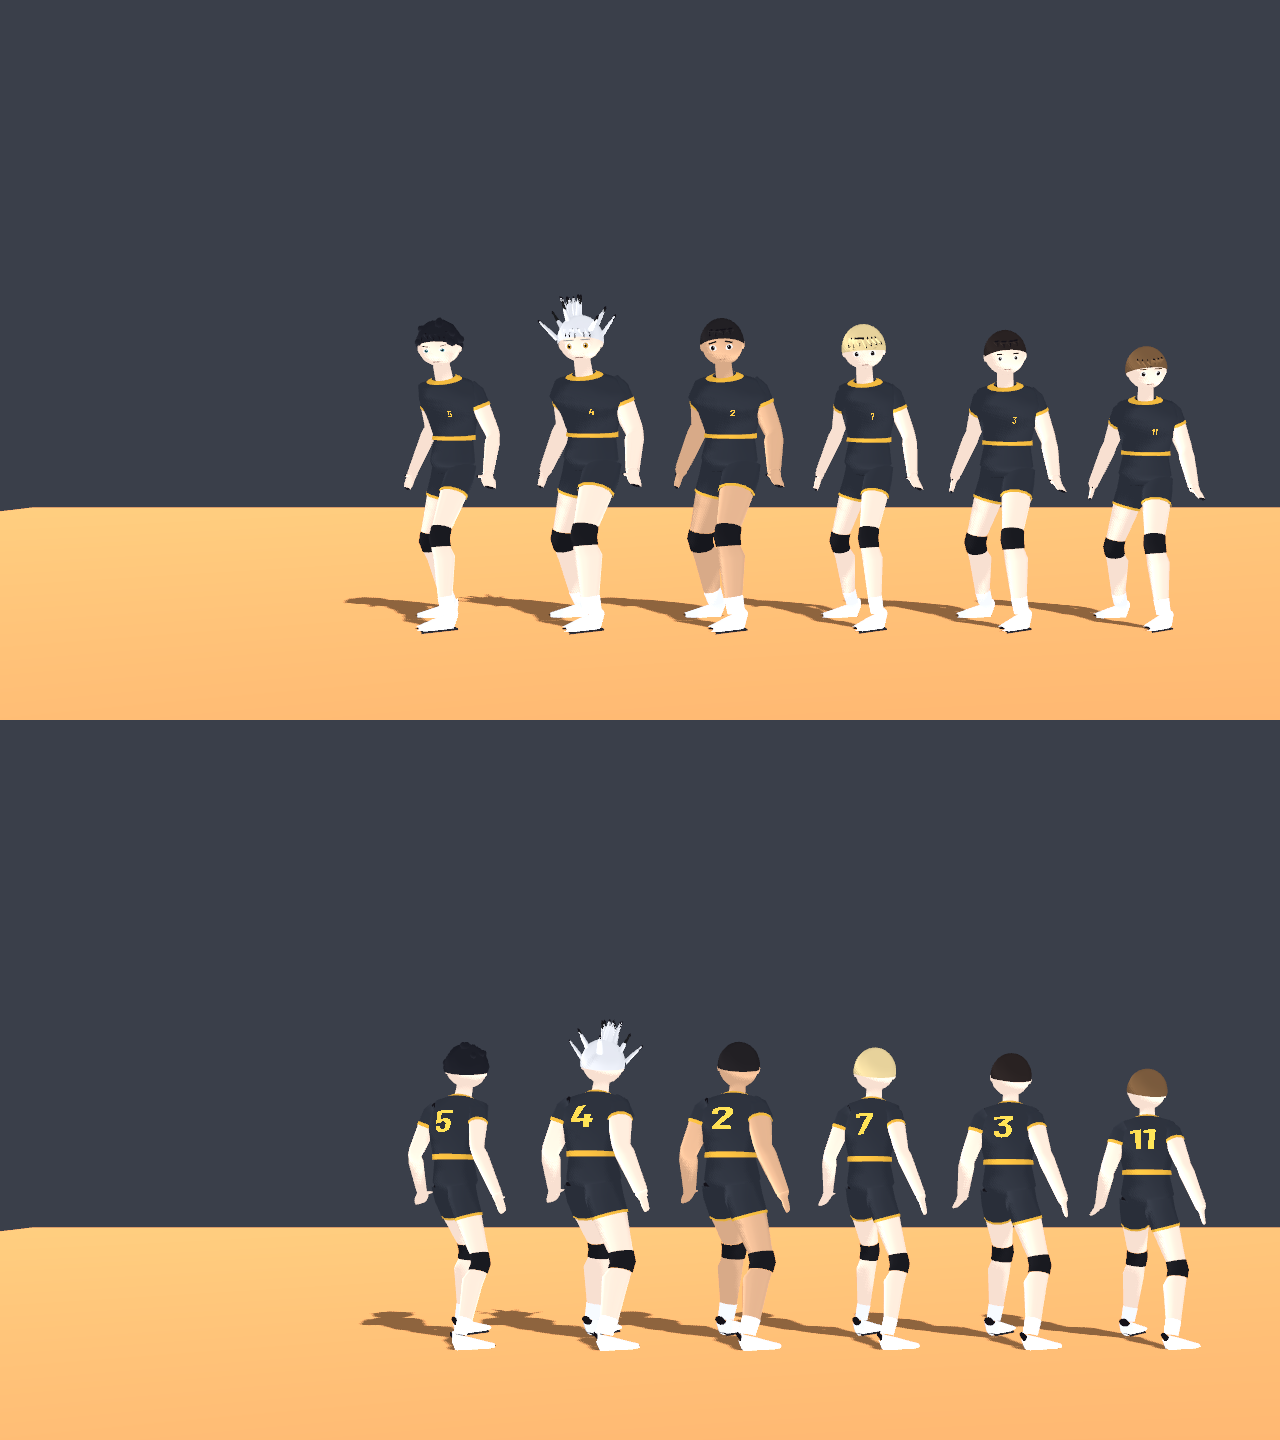
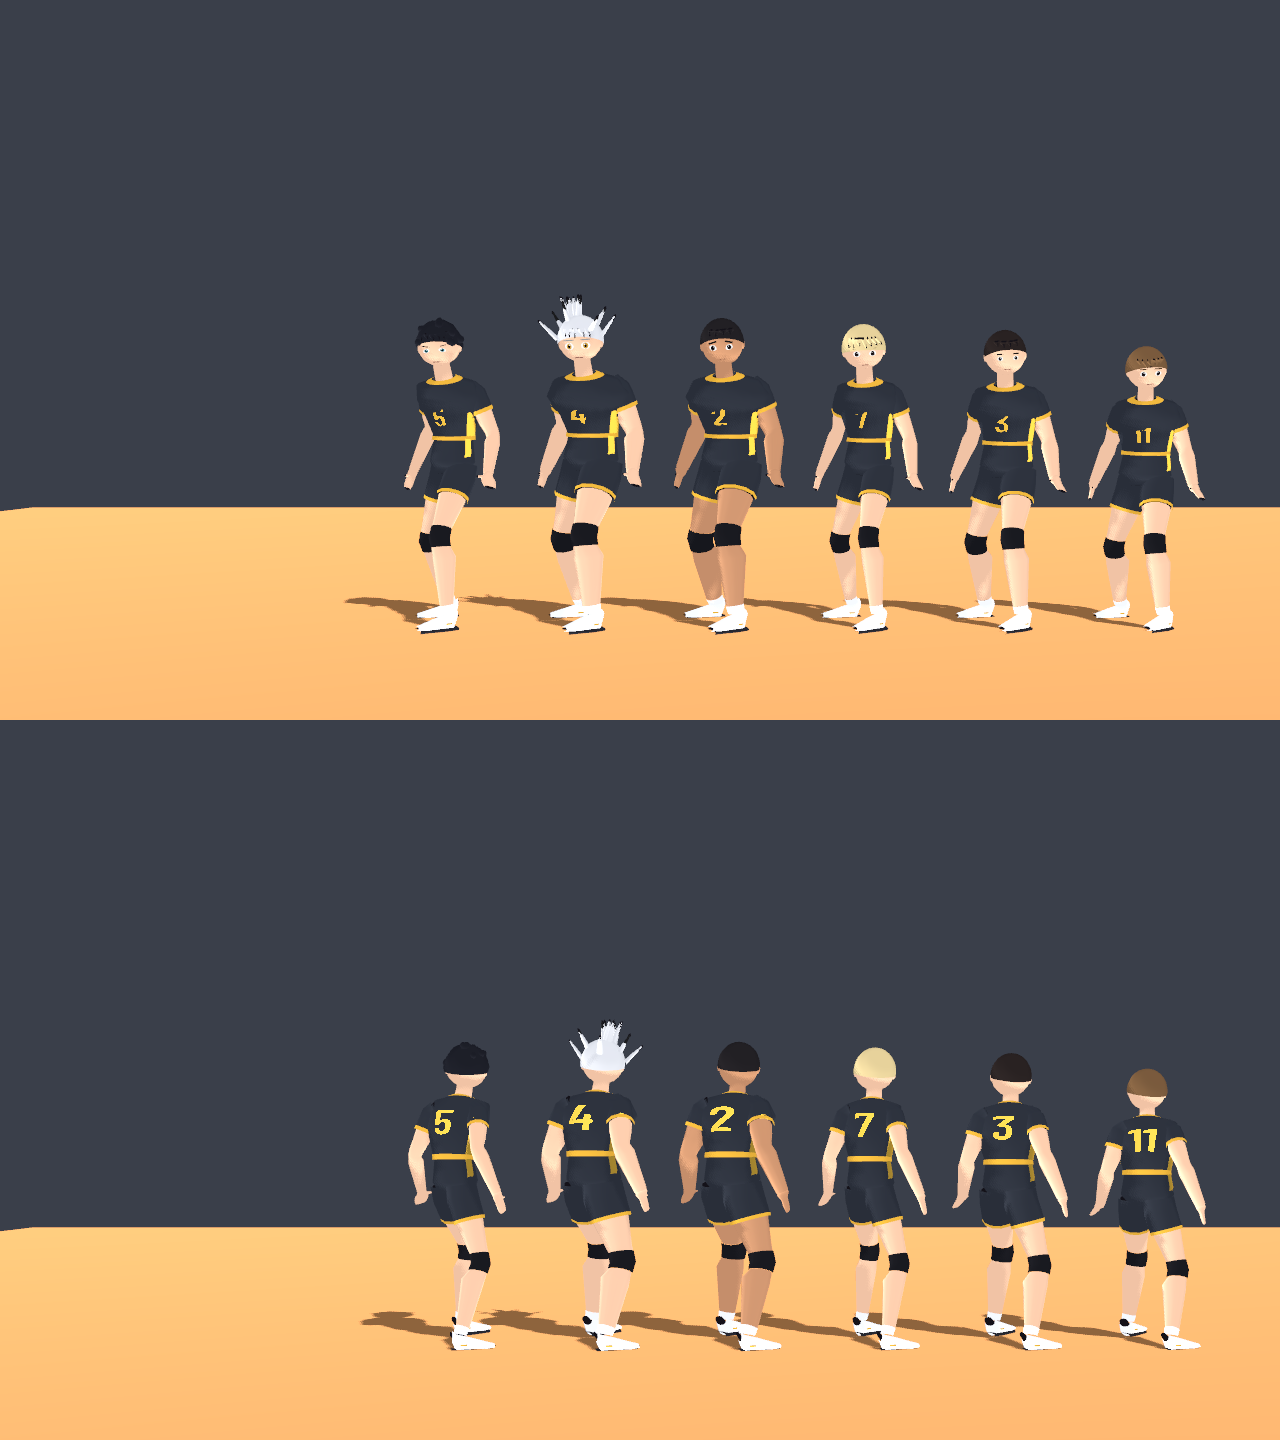
Fase 06: pose de espera dos atletas e relatório
- Animação "espera" (joelhos dobrados, quadril baixo, braços à frente)
  usada quando o atleta está parado em quadra; pés medidos no chão
  de 1,63 m a 1,94 m.
- Teste novo teste_pose_de_espera.gd; vista "espera" nas capturas.
- Folhas dos 7 times refeitas com o gerador novo e comparações em
  producao/fase06.
- Relatório docs/FASE_06_ATLETA.md: 30/30 testes, robô 2x1 sem erros.

diff --git a/docs/FASE_06_ATLETA.md b/docs/FASE_06_ATLETA.md
@@ -1,0 +1,41 @@
+# Fase 06 — Atleta low-poly com personalidade (42 preservados)
+
+Data: 11/11/2026 (madrugada, tarefa agendada). Branch `claude/fase-06-atleta`, a partir de `claude/fase-05-polyfork`, com a prévia aprovada (`claude/previa-atleta`).
+
+## Resumo
+- O **gerador de atletas** ficou mais atlético e com uniforme de verdade, e os atletas ganharam uma **pose de espera** em quadra. Tudo por código: as mudanças valem pros **42** de uma vez, sem obra manual em cada um.
+- Os dados dos 42 (`dados/aparencia.json`, `dados/elenco.json`) **não mudaram**: altura, porte, pele, cabelo e rosto de cada um continuam os mesmos.
+- **Testes:** 30 de 30 arquivos de `testes/` passaram `[TESTADO]`; teste novo `teste_pose_de_espera.gd`. **Robô:** partida completa Karasuno × Nekoma no ginásio japonês, 2 × 1 em sets, 29 rallies (maior com 44 toques), 353 s de jogo, 0 linhas de erro; 3,9 ms por quadro em média (pior 14,7 ms, sem janela).
+
+## O que mudou no corpo e no uniforme (`scripts/visual/gerador_de_atleta.gd`)
+| Antes | Agora |
+|---|---|
+| Pele quase branca (o shader anime clareava demais) | Tons de pele com cor, do mais claro ao mais escuro (tabela `PELES`) |
+| Tronco estreito, "boneco de tubos" | Ombros e peito mais largos (silhueta em V), deltoide, bíceps, antebraço, coxa e panturrilha com volume |
+| Número da frente minúsculo, no canto | **Número grande no meio do peito**; o das costas também cresceu |
+| Camisa e short lisos | **Recortes laterais** na camisa e **faixa lateral** no short, na cor de detalhe do time; manga mais comprida e larga; short um pouco mais comprido |
+| Meia branca até a canela, misturando com a perna e o tênis | **Meia curta** e **tênis com sola mais grossa e faixa na cor do time** |
+
+## Pose de espera (`scripts/visual/animador.gd`)
+Parado em quadra, o atleta não fica mais em pé com os braços soltos: toca a animação **"espera"**, feita a partir da "parado" (mesma respiração), com **joelhos dobrados, quadril mais baixo, tronco inclinado pra frente e braços na frente do corpo**. Os ângulos ficam em `POSE_DE_ESPERA` e a descida do quadril em `DESCIDA_DO_QUADRIL`, ajustados medindo os ossos: **tornozelo na mesma altura e ponta do pé no chão** em atletas de 1,63 m a 1,94 m (diferença de até 4 mm). Corrida, passos laterais, lances, cortada (mão da batida, `LeftHand`) e comemorações não mudaram. Os árbitros, reservas, a seleção e as cartas continuam com a "parado" (em pé).
+
+## Capturas `[VALIDADO VISUALMENTE]`
+- `producao/fase06/comparacao_hinata_*.png` — Hinata antes (esquerda) e agora (direita): frente, três quartos, perfil, costas, correr, cortada.
+- `producao/fase06/comparacao_hinata_parado_x_espera.png` — antes em pé × agora na pose de espera.
+- `producao/fase06/comparacao_partida.png` — a mesma cena de jogo, antes e agora (12 atletas).
+- `producao/fase06/comparacao_detalhe_banco.png` — reservas no banco.
+- `producao/capturas/<time>/folha.png` — os 6 de cada um dos 7 times, refeitos com o gerador novo (frente e costas).
+- `producao/capturas/karasuno/10_hinata_*.png` — todas as vistas do Hinata, inclusive a nova `espera`.
+
+## Testes `[TESTADO]`
+- `teste_pose_de_espera.gd` (novo): a "espera" existe e repete, é a pose parada em quadra, e em 4 atletas de alturas diferentes o tornozelo e a ponta do pé ficam no chão com o quadril mais baixo; o animador de verdade começa nela.
+- `teste_elenco_em_quadra.gd` continua confirmando os 42 atletas com malha, pesos, esqueleto e animações; `teste_animacoes`, `teste_animador` e `teste_cortada` continuam passando (rig e batida intactos).
+
+## Como fica pros 42
+Não há nada pra fazer atleta por atleta: corpo, uniforme e pose saem do gerador e do animador. Pra mudar um atleta, continua sendo só o `dados/aparencia.json` (altura, porte, pele, cabelo, rosto). Um `.vrm` em `personagens/` continua tendo prioridade sobre o gerado, e a cápsula continua como reserva.
+
+## Polyfork humanoide
+Não usado: os personagens da Polyfork têm outro esqueleto (Mixamo de 22 ossos, sem os dedos do perfil do jogo) e uniforme de outros esportes; trocar exigiria retarget e refazer roupa e cabelo pra cada um, enquanto o gerador já entrega os 42 diferentes e animados.
+
+## Como ver no seu PC
+**F5** → Partida rápida → qualquer time. Parados, os atletas esperam agachados; ao correr, voltam ao normal. Na seleção, o atleta do retrato mostra o uniforme novo.

diff --git a/docs/ESTADO_DO_PROJETO.md b/docs/ESTADO_DO_PROJETO.md
@@ -194,11 +194,12 @@ Leia esta seção inteira antes de mexer no código.
 - **Cuidado:** deixe **Remove Tracks desligado** na importação. No Godot 4.7.2 ele apaga as trilhas da animação.
 - **DeepMotion** (vídeo → animação): ossos com nomes `*_JNT`, vem de costas e o quadril sobe com o tempo. Fica em `animacoes/deepmotion/` com `deepmotion_bone_map.tres`; rode `godot --headless --script res://ferramentas/converte_deepmotion.gd` pra gerar o `.tres` do jogo.
 - Levantamento e cortada montada saem de `ferramentas/animacoes_combinadas.gd`.
+- **Pose de espera** (Fase 06): parado em quadra o atleta toca "espera", criada em `animador.gd` a partir da "parado" (`POSE_DE_ESPERA`, `DESCIDA_DO_QUADRIL`, `PARADO_NO_JOGO`). Mexendo nos ângulos, rode `teste_pose_de_espera.gd` (confere os pés no chão).
 - `scripts/visual/animador.gd`: a tabela `TRECHOS` diz qual pedaço de cada animação toca em cada lance. A cortada usa `TEMPO_ATE_A_BATIDA` (0,3 s) e puxa a bola até a mão (ímã de 0,15 s).
 - Passo a passo completo em `animacoes/LEIA-ME.md`.
 
 ### Testes
-- São 29 arquivos em `testes/` (`teste_cenario.gd` abre a partida nos 4 estádios e confere rede, árbitros, pessoas e as camadas de cada câmera; `teste_tela_de_selecao.gd` e `teste_tela_de_cartas.gd` abrem a tela e apertam os botões dos dois jogadores; `teste_elenco_em_quadra.gd` confere os 42 atletas: malha com pesos, esqueleto, trilhas das animações e pose que se mexe). Rode todos, dentro da pasta do projeto:
+- São 30 arquivos em `testes/` (`teste_pose_de_espera.gd` confere a pose de espera com os pés no chão; `teste_cenario.gd` abre a partida nos 4 estádios e confere rede, árbitros, pessoas e as camadas de cada câmera; `teste_tela_de_selecao.gd` e `teste_tela_de_cartas.gd` abrem a tela e apertam os botões dos dois jogadores; `teste_elenco_em_quadra.gd` confere os 42 atletas: malha com pesos, esqueleto, trilhas das animações e pose que se mexe). Rode todos, dentro da pasta do projeto:
 
 ```
 for t in testes/teste_*.gd; do godot --headless --script res://$t; done

diff --git a/README.md b/README.md
@@ -131,7 +131,7 @@ godot --headless --script res://testes/teste_animacoes.gd
 godot --headless --script res://testes/teste_animador.gd
 ```
 
-Ou todos de uma vez (29 arquivos, incluindo tempo do toque, mira, cortada, atributos, mergulho, jogadas e placar):
+Ou todos de uma vez (30 arquivos, incluindo tempo do toque, mira, cortada, atributos, mergulho, jogadas e placar):
 
 ```
 for t in testes/teste_*.gd; do godot --headless --script res://$t; done
